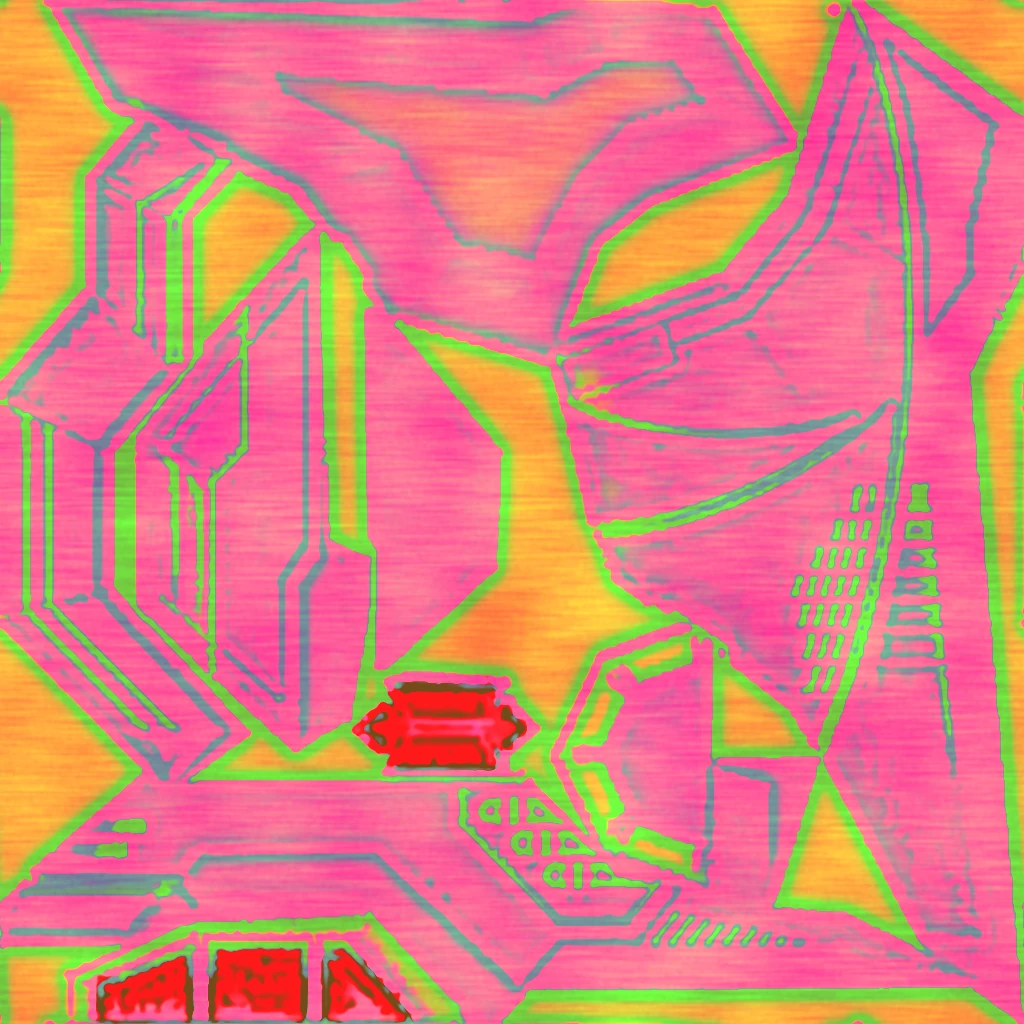
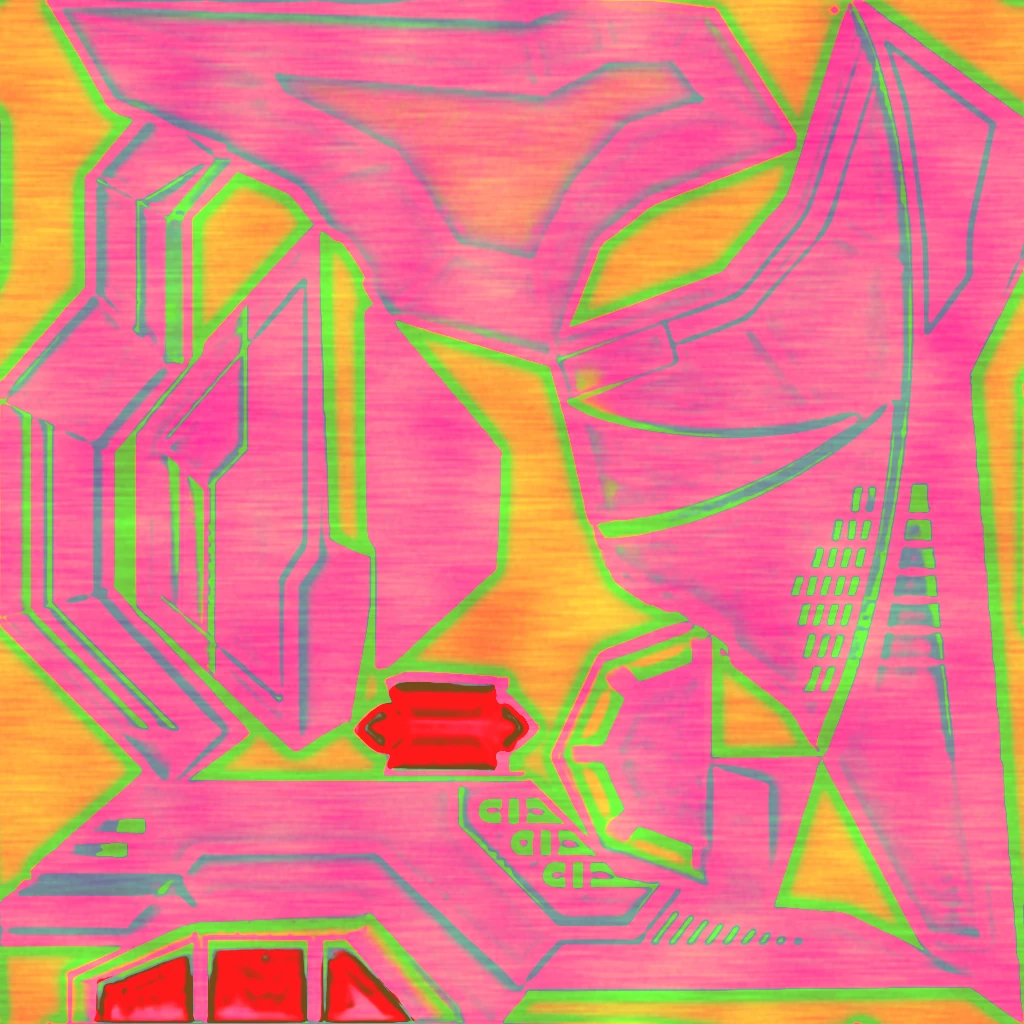
Naves: a cor das naves do protótipo mid-poly PBR ampliada por IA (Real-ESRGAN), com a borda das chapas reta e limpa

diff --git a/tools/nave_pbr_cor_ia.py b/tools/nave_pbr_cor_ia.py
@@ -1,0 +1,50 @@
+"""Amplia 4× a textura de cor de uma nave do original com o Real-ESRGAN (IA, local).
+
+A textura sai do glb, ganha uma borda de BORDA pixels que dá a volta (a textura
+repete, e sem a borda a IA deixaria uma costura no limite da imagem), passa pelo
+`realesrgan-ncnn-vulkan` (roda em qualquer placa com Vulkan, a Iris Xe inclusive:
+uns 15 s por textura no modelo `realesrgan-x4plus`) e perde a borda. O PNG que sai
+entra em `tools/nave_pbr_texturas.py --cor`, que tira dele os outros mapas.
+
+O executável e os modelos NÃO ficam no repositório: são o zip
+`realesrgan-ncnn-vulkan-20220424-ubuntu.zip` da versão v0.2.5.0 do Real-ESRGAN
+(github.com/xinntao/Real-ESRGAN/releases), extraído numa pasta qualquer.
+
+Uso: python3 -I tools/nave_pbr_cor_ia.py <nave.glb> <saida.png> <pasta do realesrgan> [modelo]
+"""
+import io
+import json
+import os
+import struct
+import subprocess
+import sys
+import tempfile
+
+from PIL import Image
+
+BORDA = 16
+FATOR = 4
+MODELO = 'realesrgan-x4plus'  # o que ficou melhor nas naves: borda limpa sem mudar a cor
+
+glb, saida, pasta = sys.argv[1:4]
+modelo = sys.argv[4] if len(sys.argv) > 4 else MODELO
+dados = open(glb, 'rb').read()
+tam = struct.unpack_from('<I', dados, 12)[0]
+gltf = json.loads(dados[20:20 + tam])
+inicio = 20 + tam + 8
+tex = gltf['materials'][0]['pbrMetallicRoughness']['baseColorTexture']['index']
+vista = gltf['bufferViews'][gltf['images'][gltf['textures'][tex]['source']]['bufferView']]
+original = Image.open(io.BytesIO(dados[inicio + vista.get('byteOffset', 0):][:vista['byteLength']])).convert('RGB')
+w, h = original.size
+ladrilho = Image.new('RGB', (w * 3, h * 3))
+for y in range(3):
+    for x in range(3):
+        ladrilho.paste(original, (x * w, y * h))
+with tempfile.TemporaryDirectory() as tmp:
+    entrada, ampliada = os.path.join(tmp, 'entrada.png'), os.path.join(tmp, 'ampliada.png')
+    ladrilho.crop((w - BORDA, h - BORDA, 2 * w + BORDA, 2 * h + BORDA)).save(entrada)
+    # O executável acha os modelos na pasta `models` ao lado dele.
+    subprocess.run([os.path.join(os.path.abspath(pasta), 'realesrgan-ncnn-vulkan'), '-i', entrada, '-o', ampliada, '-n', modelo, '-s', str(FATOR)], check=True, cwd=pasta, capture_output=True)
+    b = BORDA * FATOR
+    Image.open(ampliada).convert('RGB').crop((b, b, b + w * FATOR, b + h * FATOR)).save(saida)
+print(f'{saida}: {w * FATOR} × {h * FATOR}, {modelo}')

diff --git a/tools/nave_pbr_texturas.py b/tools/nave_pbr_texturas.py
@@ -13,10 +13,12 @@ saem quatro imagens de TAMANHO × TAMANHO, todas no layout de UV do original:
                          a base tangente que o three.js monta sem tangentes no glb
   <saida>_emissivo.webp  só o que acende: o vidro azul da cabine e as luzes verdes
 
-Sem rede e sem modelo de IA: só Pillow, numpy e scipy, com semente fixa.
+Só Pillow, numpy e scipy, com semente fixa. A cor ampliada pode vir pronta de um
+upscaler de IA (`--cor`, o PNG de tools/nave_pbr_cor_ia.py: bordas retas e limpas, é
+o que as naves do protótipo usam); sem ela, vale a ampliação daqui, sem IA.
 
 Uso: python3 -I tools/nave_pbr_texturas.py <nave.glb> <saida sem extensão> [--semente n]
-         [--tinta rugosidade,metal] [--previa pasta]
+         [--tinta rugosidade,metal] [--cor ampliada.png] [--previa pasta]
 
 `--tinta` troca a rugosidade e o metal da pintura do casco (o padrão é tinta sobre
 chapa; a Ulysses, dourada, pede um casco mais metálico). `--semente` é a do grão (o
@@ -149,7 +151,10 @@ def main():
         REGIOES['tinta'] = tuple(float(v) for v in opcao('--tinta').split(','))
     original = textura_do_glb(entrada)
     fator = TAMANHO // original.shape[0]
-    cor = ampliar(original, fator)
+    if opcao('--cor'):
+        cor = np.asarray(Image.open(opcao('--cor')).convert('RGB').resize((TAMANHO, TAMANHO), Image.LANCZOS), dtype=np.float32) / 255
+    else:
+        cor = ampliar(original, fator)
     forma = cor.shape[:2]
     m = mascaras(cor)
     lum = luminancia(cor)

diff --git a/public/modelos/naves-pbr/LISTA.md b/public/modelos/naves-pbr/LISTA.md
@@ -9,15 +9,15 @@ Cada nave fica no mesmo caminho dela em `public/modelos/naves/`, com cinco arqui
 | Arquivo | Conteúdo |
 |---|---|
 | `<nave>.glb` | A malha do original soldada, com as quinas chanfradas e o resto liso com normais ponderadas; os nós de encaixe do original, iguais; sem imagem (material `pbr_nave`) |
-| `<nave>_cor.webp` | A textura de cor do original ampliada 4× (256 → 1024), sRGB |
+| `<nave>_cor.webp` | A textura de cor do original ampliada 4× (256 → 1024) por IA (Real-ESRGAN), com um grão fino, sRGB |
 | `<nave>_mr.webp` | Vermelho = oclusão das frestas, verde = rugosidade, azul = metal (linear) |
 | `<nave>_normal.webp` | Relevo das linhas da textura (frestas, grades) e micro-relevo da chapa; verde = +v da imagem (linear) |
 | `<nave>_emissivo.webp` | O que acende: o vidro azul da cabine e as luzes verdes (sRGB) |
 
 | Nave | Triângulos (antes → depois) | Tamanho |
 |---|---|---|
-| `shrewdo/functional/cyclone-wing` | 362 → 2072 | glb 58 KB + mapas 790 KB (antes: 140 KB) |
-| `acron/assault/ulysses` | 498 → 2792 | glb 74 KB + mapas 590 KB (antes: 137 KB); `--semente 14 --tinta 0.40,0.60` (casco dourado, mais metálico) |
+| `shrewdo/functional/cyclone-wing` | 362 → 2072 | glb 58 KB + mapas 610 KB (antes: 140 KB) |
+| `acron/assault/ulysses` | 498 → 2792 | glb 74 KB + mapas 600 KB (antes: 137 KB); `--semente 14 --tinta 0.40,0.60` (casco dourado, mais metálico) |
 
 ## Como refazer
 
@@ -26,15 +26,20 @@ pip install bpy scipy pillow numpy          # o Blender como módulo do Python
 N=shrewdo/functional/cyclone-wing
 python3 tools/nave_pbr_malha.py public/modelos/naves/$N.glb /tmp/malha.glb
 node tools/nave_pbr_montar.mjs public/modelos/naves/$N.glb /tmp/malha.glb public/modelos/naves-pbr/$N.glb
-python3 -I tools/nave_pbr_texturas.py public/modelos/naves/$N.glb public/modelos/naves-pbr/$N   # + as opções da tabela
+python3 -I tools/nave_pbr_cor_ia.py public/modelos/naves/$N.glb /tmp/cor.png ~/realesrgan   # a cor ampliada por IA (pasta do zip extraído)
+python3 -I tools/nave_pbr_texturas.py public/modelos/naves/$N.glb public/modelos/naves-pbr/$N --cor /tmp/cor.png   # + as opções da tabela
 ```
 
 - `nave_pbr_malha.py`: chanfro de 0,22 (metro do original) em 2 faixas nas quinas acima de 32°; a ponta fina (bico, ponta de
   asa) fica viva, sem chanfro, e nenhum vértice do original fica a mais de 0,25 da malha nova (o script mede e refaz).
 - `nave_pbr_montar.mjs`: os nós do glb do original com a malha nova; confere a caixa.
-- `nave_pbr_texturas.py`: só Pillow, numpy e scipy, semente fixa (`--semente`, o número da unidade no original), **sem modelo de IA**; `--tinta rugosidade,metal`
-  troca o acabamento da pintura do casco (a ampliação é Lanczos + filtro de
-  choque). Um upscaler de IA (Real-ESRGAN) ou repintura à mão daria uma cor melhor de perto; os outros mapas não mudam.
+- `nave_pbr_cor_ia.py`: a cor ampliada 4× pelo **Real-ESRGAN** (`realesrgan-ncnn-vulkan`, modelo `realesrgan-x4plus`), rodando na
+  máquina (qualquer placa com Vulkan; uns 15 s por textura numa Iris Xe). O executável e os modelos não ficam no repositório:
+  são o zip `realesrgan-ncnn-vulkan-20220424-ubuntu.zip` da versão v0.2.5.0 (github.com/xinntao/Real-ESRGAN/releases). Dos três
+  modelos do zip, o `x4plus` foi o que deixou a borda das chapas reta sem mudar a cor (os de anime saturam e alisam demais).
+- `nave_pbr_texturas.py`: só Pillow, numpy e scipy, semente fixa (`--semente`, o número da unidade no original); `--tinta rugosidade,metal`
+  troca o acabamento da pintura do casco; `--cor` recebe a cor da IA (as duas naves do protótipo usam) e, sem ela, a ampliação é a
+  daqui (Lanczos + filtro de choque, sem IA, com a borda das chapas ondulada de perto). Os outros mapas saem da cor ampliada.
 
 Nave nova no protótipo: gerar os cinco arquivos e pôr o modelo em `NAVES_PBR` (`public/js/nave-pbr-regras.js`);
 `tests/nave-pbr.test.mjs` confere a forma, os encaixes e os arquivos.
